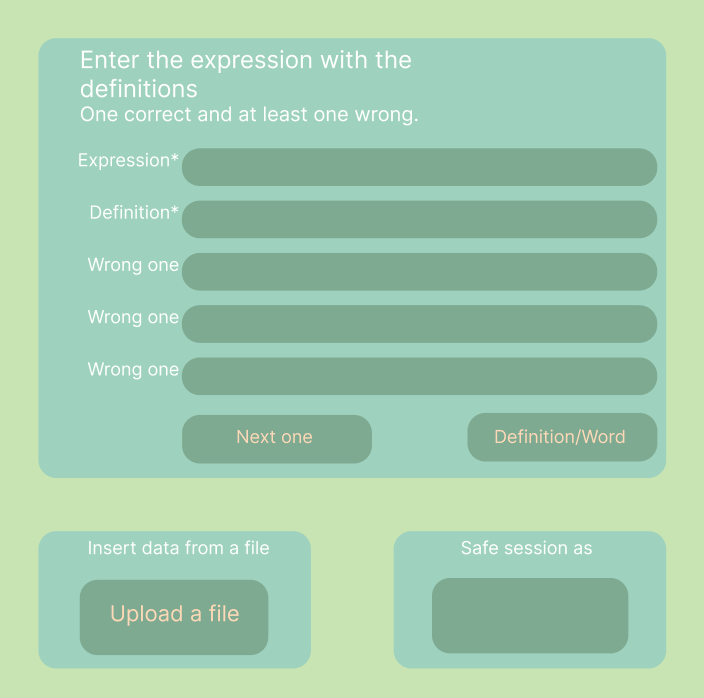
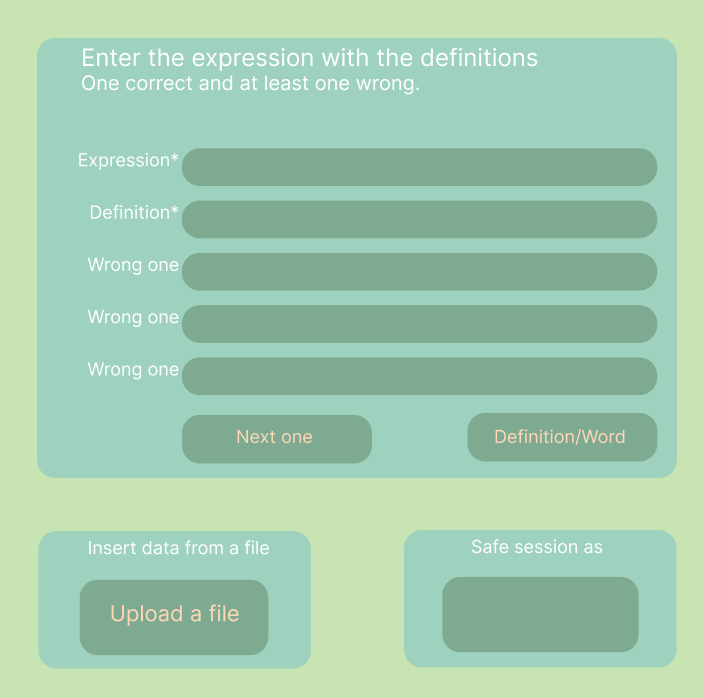
added word_section interface elements

diff --git a/app/main.py b/app/main.py
@@ -45,6 +45,8 @@ class MainPanel(tk.Tk):
 
             frame.tkraise()
 
+            self.frames['right_frame'].monitor_button_state()
+
             if self.current_left_frame:
                 self.current_left_frame.forget()
                 self.current_left_frame = frame
@@ -224,6 +226,7 @@ class RightFrame(tk.Frame):
         thread.daemon = True
         thread.start()
 
+
     def open_about(self):
         print('About button has been pressed')
 
@@ -240,6 +243,45 @@ class WordFrame(tk.Frame):
         self.background.place(relwidth=1, relheight=1)
         self.pack(side="left")
 
+        self.next_one_button_bg = PhotoImage(file=
+                                             "./components/graphical_components/material_panel/next_one_button.png")
+        self.switch_button_bg = PhotoImage(file="./components/graphical_components/material_panel/switch_button.png")
+        self.file_upload_bg = PhotoImage(file="./components/graphical_components/material_panel/file_upload.png")
+        self.blank_button_bg = PhotoImage(file="./components/graphical_components/material_panel/blank_button.png")
+        self.confirm_button_bg = PhotoImage(file="./components/graphical_components/material_panel/confirm_button.png")
+
+        self.word_entry = tk.Entry(self, width=32, background="#7eaa92", fg="white", bd=0, justify="center",
+                                   font=("Arial", 16))
+        self.word_entry.place(x=210, y=164)
+
+        self.translation_entry = tk.Entry(self, width=32, background="#7eaa92", fg="white", bd=0, justify="center",
+                                          font=("Arial", 16))
+        self.translation_entry.place(x=210, y=264)
+
+        self.next_one = tk.Button(self, command=self.switch_panel_frame, image=self.next_one_button_bg, bd=0,
+                                  background='#9ed2be', highlightthickness=0)
+        self.next_one.place(x=314, y=328)
+
+        self.switch_button = tk.Button(self, command=lambda: master.show_frame("expression_frame"),
+                                       image=self.switch_button_bg, bd=0, background='#9ed2be', highlightthickness=0)
+        self.switch_button.place(x=425, y=416)
+
+        self.upload_button = tk.Button(self, command=self.switch_panel_frame,
+                                       image=self.file_upload_bg, bd=0, background='#9ed2be', highlightthickness=0)
+        self.upload_button.place(x=75, y=573)
+
+        self.safe_as_label = tk.Entry(self, width=19, background="#7eaa92", fg="white", bd=0, justify="center",
+                                   font=("Arial", 12))
+        self.safe_as_label.place(x=448, y=569)
+        self.safe_as_label.configure(takefocus=False)
+
+        self.safe_as_button = tk.Button(self, command=self.switch_panel_frame,
+                                       image=self.confirm_button_bg, bd=0, background='#9ed2be', highlightthickness=0)
+        self.safe_as_button.place(x=442, y=609)
+
+
+    def switch_panel_frame(self):
+        pass
 
 class ExpressionSection(tk.Frame):
     def __init__(self, master=None):
@@ -250,7 +292,9 @@ class ExpressionSection(tk.Frame):
                                            "./components/graphical_components/material_panel/expression_section.png")
         self.background = tk.Label(self, image=self.background_image)
         self.background.place(relwidth=1, relheight=1)
-        # self.pack(side="left")
+        #self.pack(side="left")
+
+
 
 
 if __name__ == "__main__":
